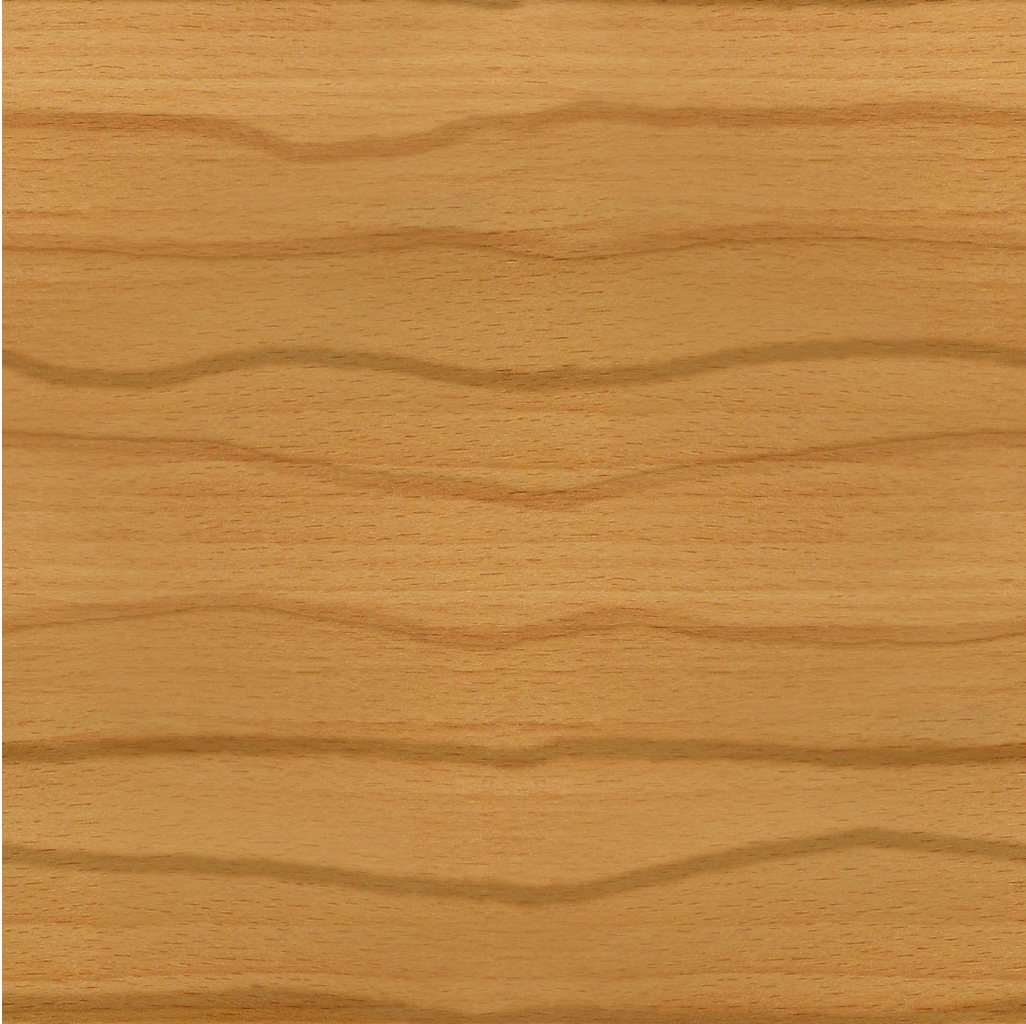
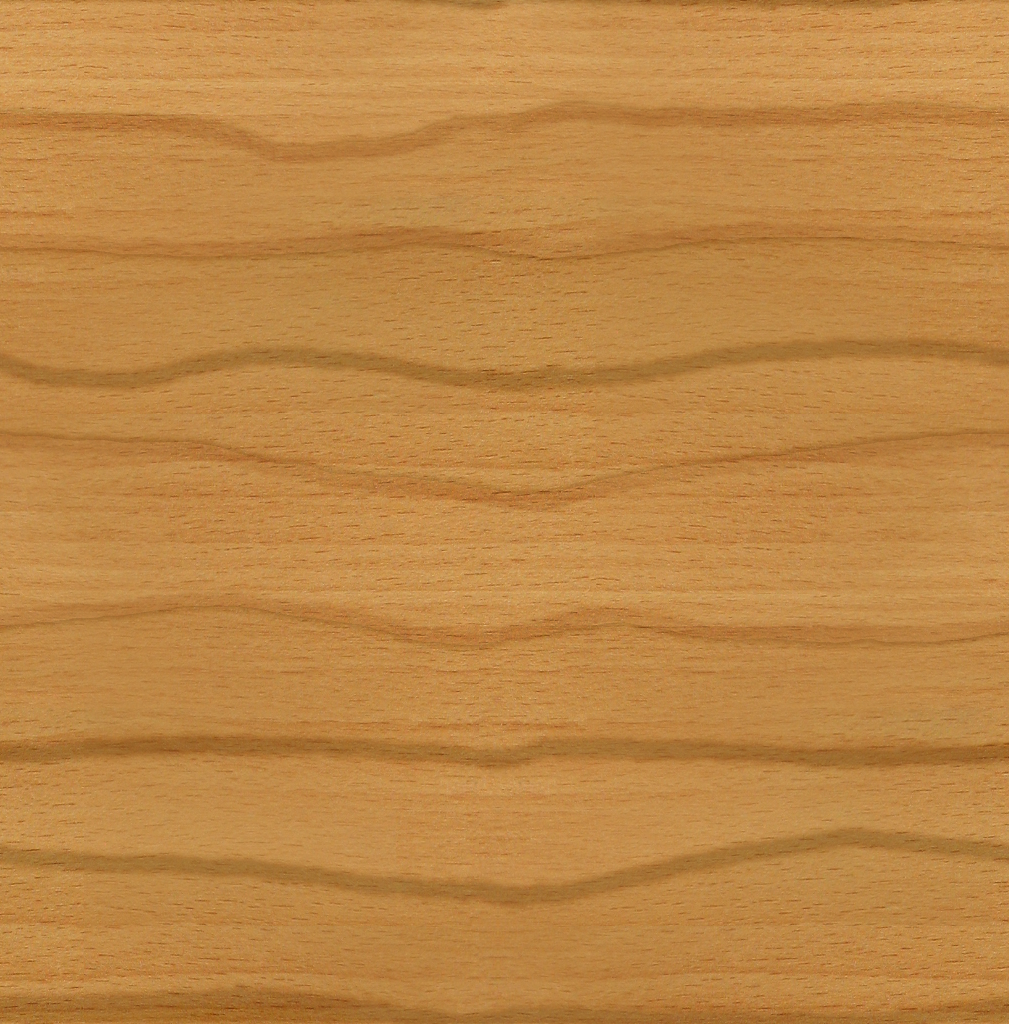
menuThingy

diff --git a/2DArrayGame/sketch.js b/2DArrayGame/sketch.js
@@ -152,8 +152,7 @@ function playerThing() {
 }
 
 function menuBar() {
-  fill(153, 102, 51);
-  rect(0, rows * cellSize, width, 3 * cellSize);
+  image(menuTexture, 0, rows * cellSize, width, 3 * cellSize);
 }
 
 // goes to the next maze after reaching the green square
